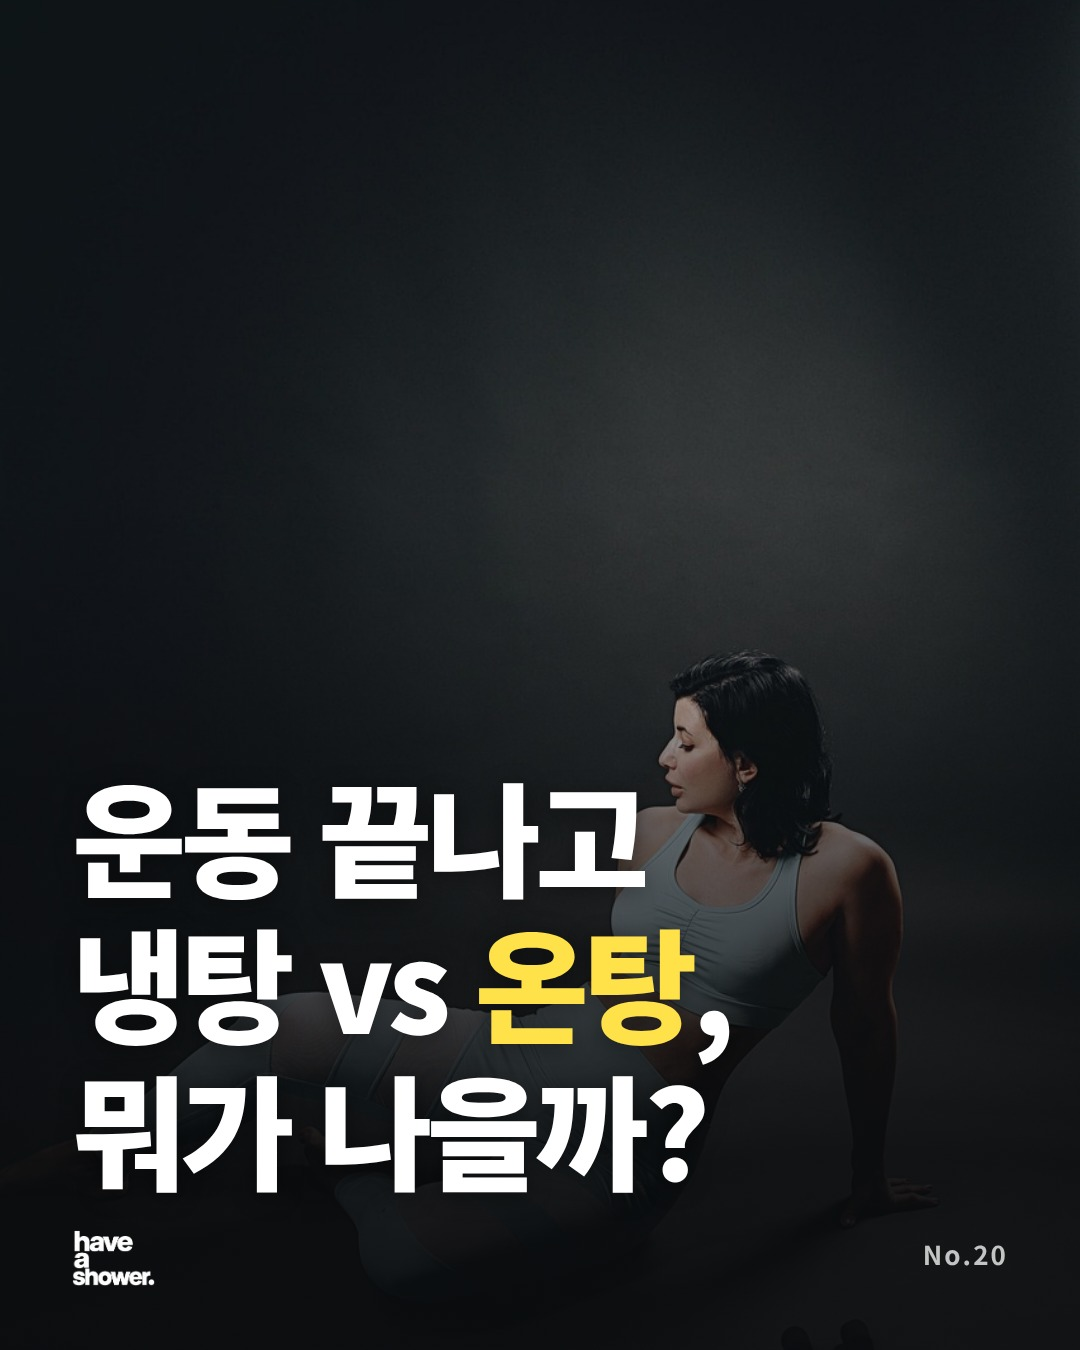
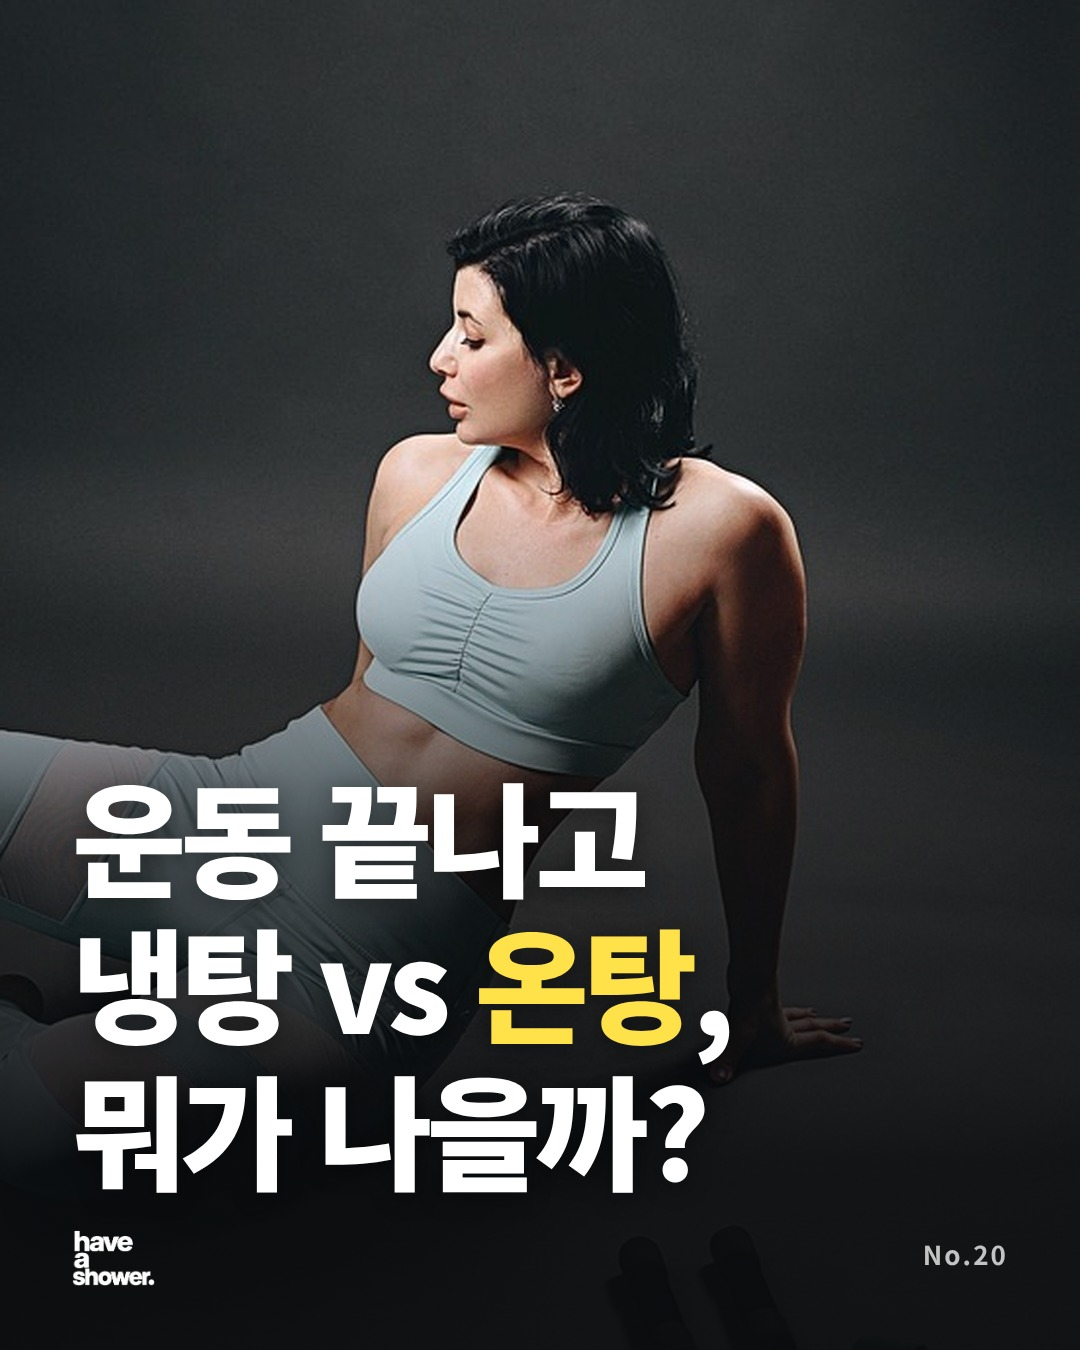
사진 규칙 정정(표지만 얼굴·제품), No.20 안쪽 사진 원복·표지 크롭
Claude-Session: https://claude.ai/code/session_01MYgG3nFawowioXgGEyeZyo

diff --git a/cardnews/project/P20-2-Question.dc.html b/cardnews/project/P20-2-Question.dc.html
@@ -22,10 +22,10 @@ a{color:inherit}
 <h2 style="margin: 0; font-family: 'Gothic A1', 'Noto Sans KR', sans-serif; font-size: 62px; font-weight: 800; line-height: 1.25; letter-spacing: -0.02em; white-space: pre-line">운동 끝나고 나는?</h2>
 
 <div style="display: flex; gap: 24px"><div style="flex: 1; display: flex; flex-direction: column; gap: 14px">
-<div style="height: 380px; border-radius: 20px; background: #5B8DEF; display: flex; flex-direction: column; align-items: center; justify-content: center; gap: 10px"><div style="font-size: 120px; line-height: 1">❄</div><div style="font-family: 'Gothic A1', 'Noto Sans KR', sans-serif; font-size: 72px; font-weight: 800; color: #FFFFFF">10°C</div></div>
+<div style="height: 380px; border-radius: 20px; overflow: hidden"><img src="/_blob/8d385385e355e4c6eee4ad241f609c9b" alt="" style="width: 100%; height: 100%; object-fit: cover; object-position: 50% 50%; display: block"></div>
 <div style="font-family: 'Gothic A1', 'Noto Sans KR', sans-serif; font-size: 40px; font-weight: 800; text-align: center">A. <span style="color: {{accent}}">얼음물</span> 냉탕</div>
 </div><div style="flex: 1; display: flex; flex-direction: column; gap: 14px">
-<div style="height: 380px; border-radius: 20px; background: #E8613C; display: flex; flex-direction: column; align-items: center; justify-content: center; gap: 10px"><div style="font-size: 120px; line-height: 1">♨</div><div style="font-family: 'Gothic A1', 'Noto Sans KR', sans-serif; font-size: 72px; font-weight: 800; color: #FFFFFF">42°C</div></div>
+<div style="height: 380px; border-radius: 20px; overflow: hidden"><img src="/_blob/aa885ee38caf06747531b8c4885c95b9" alt="" style="width: 100%; height: 100%; object-fit: cover; object-position: 40% 60%; display: block"></div>
 <div style="font-family: 'Gothic A1', 'Noto Sans KR', sans-serif; font-size: 40px; font-weight: 800; text-align: center">B. <span style="color: {{accent}}">뜨끈한</span> 온탕</div>
 </div></div>
 <div style="display: flex; flex-direction: column; gap: 20px"><div style="display: flex; gap: 18px; align-items: flex-start">

diff --git a/cardnews/project/P20-6-Heat.dc.html b/cardnews/project/P20-6-Heat.dc.html
@@ -22,7 +22,7 @@ a{color:inherit}
 <h2 style="margin: 0; font-family: 'Gothic A1', 'Noto Sans KR', sans-serif; font-size: 62px; font-weight: 800; line-height: 1.25; letter-spacing: -0.02em; white-space: pre-line">결과 ③ 몸속 회복 신호는
 <span style="color: {{accent}}">따뜻한 쪽</span>이 좋았어요</h2>
 
-<div style="background: {{accent}}; border-radius: 20px; padding: 44px 52px; display: flex; flex-direction: column; gap: 14px"><div style="font-size: 30px; font-weight: 700; color: rgba(255,255,255,0.85)">♨ 42°C 따뜻한 물 그룹</div><div style="font-family: 'Gothic A1', 'Noto Sans KR', sans-serif; font-size: 76px; font-weight: 800; line-height: 1.15; letter-spacing: -0.03em; color: #FFE14A">열충격단백질(HSP72) ↑</div></div>
+<div style="height: 360px; border-radius: 20px; overflow: hidden"><img src="/_blob/aa885ee38caf06747531b8c4885c95b9" alt="김이 나는 온탕" style="width: 100%; height: 100%; object-fit: cover; object-position: 50% 45%; display: block"></div>
 <div style="display: flex; flex-direction: column; gap: 20px"><div style="display: flex; gap: 18px; align-items: flex-start">
 <div style="width: 10px; height: 10px; border-radius: 5px; margin-top: 15px; flex-shrink: 0; background: {{accent}}"></div>
 <div style="font-size: 35px; line-height: 1.5">온열(따뜻한 물·뜨거운 공기) 그룹이 근육 손상·염증 지표 변화가 더 좋았어요</div>

diff --git a/cardnews/project/P20-5-Soreness.dc.html b/cardnews/project/P20-5-Soreness.dc.html
@@ -22,7 +22,7 @@ a{color:inherit}
 <h2 style="margin: 0; font-family: 'Gothic A1', 'Noto Sans KR', sans-serif; font-size: 62px; font-weight: 800; line-height: 1.25; letter-spacing: -0.02em; white-space: pre-line">결과 ② 덜 아픈 느낌은
 <span style="color: {{accent}}">찬물이 1등</span></h2>
 
-<div style="background: {{accent}}; border-radius: 20px; padding: 44px 52px; display: flex; flex-direction: column; gap: 14px"><div style="font-size: 30px; font-weight: 700; color: rgba(255,255,255,0.85)">❄ 찬물 그룹</div><div style="font-family: 'Gothic A1', 'Noto Sans KR', sans-serif; font-size: 76px; font-weight: 800; line-height: 1.15; letter-spacing: -0.03em; color: #FFE14A">느끼는 근육통 ↓ 가장 많이</div></div>
+<div style="height: 360px; border-radius: 20px; overflow: hidden"><img src="/_blob/8d385385e355e4c6eee4ad241f609c9b" alt="얼음물" style="width: 100%; height: 100%; object-fit: cover; object-position: 50% 60%; display: block"></div>
 <div style="display: flex; flex-direction: column; gap: 20px"><div style="display: flex; gap: 18px; align-items: flex-start">
 <div style="width: 10px; height: 10px; border-radius: 5px; margin-top: 15px; flex-shrink: 0; background: {{accent}}"></div>
 <div style="font-size: 35px; line-height: 1.5">찬물에 담근 그룹이 ‘느끼는 근육통’을 가장 잘 줄였어요</div>

diff --git a/cardnews/project/P20-1-Cover.dc.html b/cardnews/project/P20-1-Cover.dc.html
@@ -15,7 +15,7 @@ a{color:inherit}
 </style>
 </helmet>
 <div style="position: relative; width: 1080px; height: 1350px; overflow: hidden; background: #111315; color: #FFFFFF; font-family: 'Noto Sans KR', 'Apple SD Gothic Neo', sans-serif; word-break: keep-all">
-<img src="/_blob/6092733fc9fe1049e072d39ca79a9801" alt="" style="position: absolute; left: 0; top: 0; width: 1080px; height: 1350px; object-fit: cover; object-position: 62% 40%; display: block">
+<img src="/_blob/308f20327d5a6478a42089ef495b3b60" alt="" style="position: absolute; left: 0; top: 0; width: 1080px; height: 1350px; object-fit: cover; object-position: 50% 30%; display: block">
 <div style="position: absolute; left: 0; right: 0; bottom: 0; height: 860px; background: linear-gradient(180deg, rgba(10,12,14,0) 0%, rgba(10,12,14,0.6) 38%, rgba(10,12,14,0.92) 78%)"></div>
 <h1 style="position: absolute; left: 72px; right: 72px; bottom: 150px; margin: 0; font-family: 'Noto Sans KR', 'Apple SD Gothic Neo', sans-serif; font-size: 124px; font-weight: 900; line-height: 1.18; letter-spacing: -0.045em; color: #FFFFFF; text-shadow: 0 4px 24px rgba(0,0,0,0.45); white-space: pre-line">운동 끝나고
 냉탕 vs <span style="color: #FFE14A">온탕</span>,

diff --git a/cardnews/make_p19_p20.py b/cardnews/make_p19_p20.py
@@ -68,16 +68,16 @@ C20 = {
     'C': f'근육통 vs {yl("회복")}\n정답이\n달랐어요',
 }
 write('P20-1-Cover.dc.html', '냉탕 온탕 커버',
-      cover(20, '/_blob/6092733fc9fe1049e072d39ca79a9801', '62% 40%', C20[pick.get('20', 'A')]))
+      cover(20, '/_blob/308f20327d5a6478a42089ef495b3b60', '50% 30%', C20[pick.get('20', 'A')]))
 
-def half(emoji, label, temp, bg):
+def half(img, label, pos='50% 50%'):
     return f'''<div style="flex: 1; display: flex; flex-direction: column; gap: 14px">
-<div style="height: 380px; border-radius: 20px; background: {bg}; display: flex; flex-direction: column; align-items: center; justify-content: center; gap: 10px"><div style="font-size: 120px; line-height: 1">{emoji}</div><div style="font-family: {GOTHIC}; font-size: 72px; font-weight: 800; color: #FFFFFF">{temp}</div></div>
+<div style="height: 380px; border-radius: 20px; overflow: hidden"><img src="{img}" alt="" style="width: 100%; height: 100%; object-fit: cover; object-position: {pos}; display: block"></div>
 <div style="font-family: {GOTHIC}; font-size: 40px; font-weight: 800; text-align: center">{label}</div>
 </div>'''
 
 write('P20-2-Question.dc.html', '질문', page(2, 8, f'운동 끝나고 나는?', f'''
-<div style="display: flex; gap: 24px">{half("❄", f'A. {acc("얼음물")} 냉탕', "10°C", "#5B8DEF")}{half("♨", f'B. {acc("뜨끈한")} 온탕', "42°C", "#E8613C")}</div>
+<div style="display: flex; gap: 24px">{half("/_blob/8d385385e355e4c6eee4ad241f609c9b", f'A. {acc("얼음물")} 냉탕')}{half("/_blob/aa885ee38caf06747531b8c4885c95b9", f'B. {acc("뜨끈한")} 온탕', '40% 60%')}</div>
 {bullets(["영국 이스트런던대 연구팀이 활동적인 성인 40명(남 31·여 9)으로 직접 비교했어요", "허벅지 앞 근육이 뻐근해지는 운동을 시킨 뒤, 회복 방법만 달리해서 72시간 지켜봤어요"], 34)}''', S20))
 
 groups = [('❄', '찬물에 몸 담그기', '10°C'), ('♨', '따뜻한 물에 몸 담그기', '42°C'),
@@ -103,11 +103,11 @@ write('P20-4-Strength.dc.html', '결과1 근력', page(4, 8, f'결과 ① 힘이
 {bullets(["어떤 방법도 다른 방법보다 근력을 ‘확실히 더 빨리’ 돌려놓지는 못했어요", "찬물 그룹이 숫자로는 조금 낮았지만, 의미 있는 차이로 보기는 어려웠어요"], 36)}''', S20))
 
 write('P20-5-Soreness.dc.html', '결과2 근육통', page(5, 8, f'결과 ② 덜 아픈 느낌은\n{acc("찬물이 1등")}', f'''
-{bigbox("❄ 찬물 그룹", "느끼는 근육통 ↓ 가장 많이", 76)}
+<div style="height: 360px; border-radius: 20px; overflow: hidden"><img src="/_blob/8d385385e355e4c6eee4ad241f609c9b" alt="얼음물" style="width: 100%; height: 100%; object-fit: cover; object-position: 50% 60%; display: block"></div>
 {bullets(["찬물에 담근 그룹이 ‘느끼는 근육통’을 가장 잘 줄였어요", "하지만 몸속 회복 지표(근육 손상·염증)는 찬물에서 좋아지지 않았어요", "아픈 느낌을 줄여 주는 것과, 몸이 회복하는 것은 다를 수 있다는 뜻이에요"], 35)}''', S20))
 
 write('P20-6-Heat.dc.html', '결과3 온열', page(6, 8, f'결과 ③ 몸속 회복 신호는\n{acc("따뜻한 쪽")}이 좋았어요', f'''
-{bigbox("♨ 42°C 따뜻한 물 그룹", "열충격단백질(HSP72) ↑", 76)}
+<div style="height: 360px; border-radius: 20px; overflow: hidden"><img src="/_blob/aa885ee38caf06747531b8c4885c95b9" alt="김이 나는 온탕" style="width: 100%; height: 100%; object-fit: cover; object-position: 50% 45%; display: block"></div>
 {bullets(["온열(따뜻한 물·뜨거운 공기) 그룹이 근육 손상·염증 지표 변화가 더 좋았어요", "42°C 물에 담근 그룹은 ‘열충격단백질(HSP72)’이 더 높았어요. 몸이 열 스트레스에 반응해 세포를 지키려고 만드는 단백질이에요"], 35)}''', S20))
 
 choice = [('오늘 다리가 너무 아프다', '❄ 찬물', '덜 아프게'), ('몸 회복을 돕고 싶다', '♨ 따뜻한 물·사우나', '회복 지표'),

diff --git a/carousel_guide.md b/carousel_guide.md
@@ -3,9 +3,9 @@
 > 출처: 대표가 보내준 henry_upnomad '저장되는 캐러셀 18가지 규칙'(2026-11-09) + 우리 계정에 맞게 바꿈.
 > 카드뉴스 만들 때마다 아래 체크리스트를 통과시킨 뒤 대표에게 보여준다.
 
-## 0. 사진 규칙 (2026-11-13 대표 결정)
-- 카드뉴스에 쓰는 사진은 **제품이 보이거나 사람 얼굴이 보이는 사진만** 쓴다. (표지·본문 모두)
-- 얼음판·김·풍경처럼 제품도 얼굴도 없는 분위기 사진은 쓰지 않는다. 마땅한 사진이 없으면 사진 없이 그래픽(숫자·표)으로 채운다.
+## 0. 표지 사진 규칙 (2026-11-13 대표 결정)
+- **표지(첫 장)**는 사람 **얼굴이 잘 보이거나**, **제품이 예쁘게 보이는** 사진만 쓴다. 얼굴이 작거나 어두우면 잘라서(크롭) 크게 보이게 한다.
+- 안쪽 장 사진은 자유(분위기·풍경 사진도 OK).
 - 이미 올라간 편은 그대로 둔다.
 
 ## 1. 18가지 규칙 → 우리 버전
@@ -44,7 +44,7 @@
 마지막: 체크리스트 요약 + 제품 목록 + 저장 문구 + 댓글 질문
 
 ## 3. 체크리스트 (올리기 전)
-- [ ] 모든 사진에 제품이나 사람 얼굴이 보이나?
+- [ ] 표지 사진에 얼굴이 잘 보이거나 제품이 예쁘게 보이나?
 - [ ] 표지에 숫자가 있고, 답은 안 보이나?
 - [ ] 첫 장 또는 2장에 A vs B 질문이 있나?
 - [ ] 장마다 제목 한 줄로 이해되나? (본문 안 읽어도)

diff --git a/briefs/2026-11-13.md b/briefs/2026-11-13.md
@@ -133,4 +133,4 @@
 - ⚠ 인스타 API 게시 막힘(11/11~) 해결 전이라 점검·게시 안 함.
 - 12:54 대표 "올려줘" → 두 편 점검(publish=false) 통과. 12:56 No.19 게시(publish=true) ❌ 실패: 사진 업로드까지는 되고 media_publish에서 또 403 `action is blocked`(code 4, subcode 2207051). 11/11부터 4번 연속 같은 오류 → No.20 게시는 시도 안 함. 앱 직접 업로드용 파일 묶음을 대표에게 전달.
 - ✅ 정정(13:05): insights로 확인해 보니 **No.19는 12:57에 실제로 게시됨**(https://www.instagram.com/p/Dfqt3cjkbOn/). 11/11 No.16, 11/12 No.17·No.18도 모두 올라가 있었음. API가 403을 돌려주지만 게시는 되는 상태 → 각 폴더에 posted.txt 수동 기록. No.20은 18:00 게시 예정.
-- 대표: 앞으로 사진은 제품·얼굴 보이는 것만 → 미게시 No.20의 얼음·김 사진 3곳을 그래픽(온도 카드·숫자 박스)으로 교체. 표지(얼굴)는 유지.
+- 대표 정정: 사진 규칙은 **표지만**(얼굴 잘 보이게 또는 제품 예쁘게), 안쪽 사진은 자유 → No.20 안쪽 사진 원래대로 되돌림, 표지는 얼굴이 크게 보이도록 크롭(legs_3_crop.jpg).

diff --git a/HANDOFF.md b/HANDOFF.md
@@ -14,7 +14,7 @@
 - **인스타 게시는 대표가 "올려줘"라고 할 때만.** 이때 스레드에는 올리지 않음.
 - **스레드 게시는 대표가 "스레드에 올려줘"라고 따로 말할 때만.** (11/4 자동으로 같이 올렸다가 대표가 삭제함)
 - 게시 전 반드시 점검 실행(publish=false) → 성공하면 게시(publish=true) → posted.txt 확인.
-- **사진은 제품이 보이거나 얼굴이 보이는 것만**(11/13 대표 결정). 풍경·분위기 사진 금지, 없으면 그래픽으로.
+- **표지(첫 장) 사진은 얼굴이 잘 보이거나 제품이 예쁘게 보이는 것만**(11/13 대표 결정). 얼굴이 작으면 크롭해서 크게. 안쪽 장 사진은 자유.
 - 숫자·셀럽 발언은 출처 원문 그대로. 루머 금지. 다른 매체의 로고·워터마크를 지우지 않음. 사진 출처는 캡션에 표기.
 - 토큰(IG_TOKEN, THREADS_TOKEN)은 GitHub 시크릿에만 있음. 채팅·파일·로그에 절대 적지 않음.
 - 대표는 쉬운 한국어, 짧은 답을 선호. 표지 문구는 대표가 직접 고르는 경우가 많으니 2~3안 제시.
